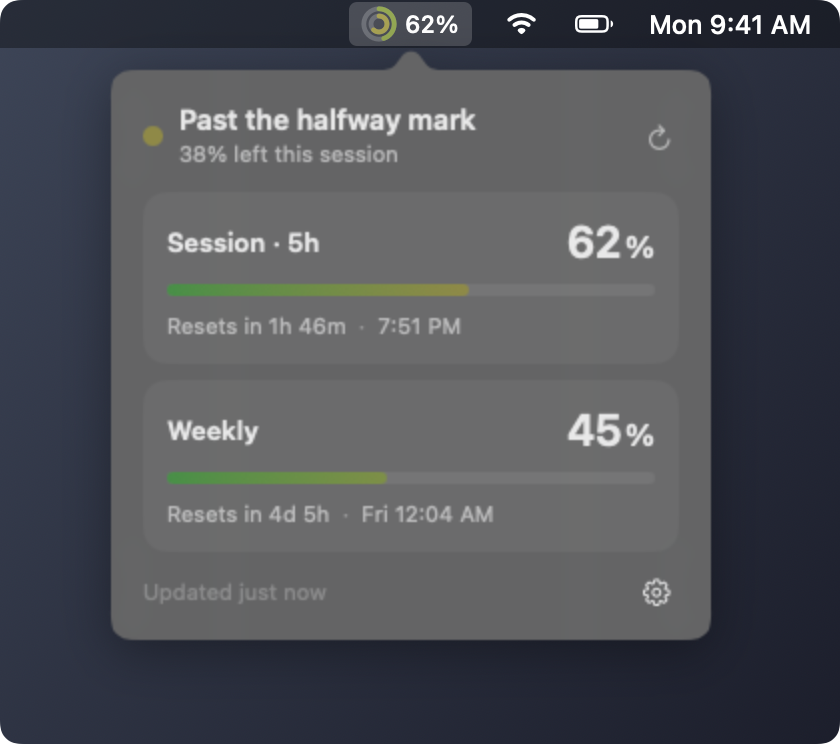
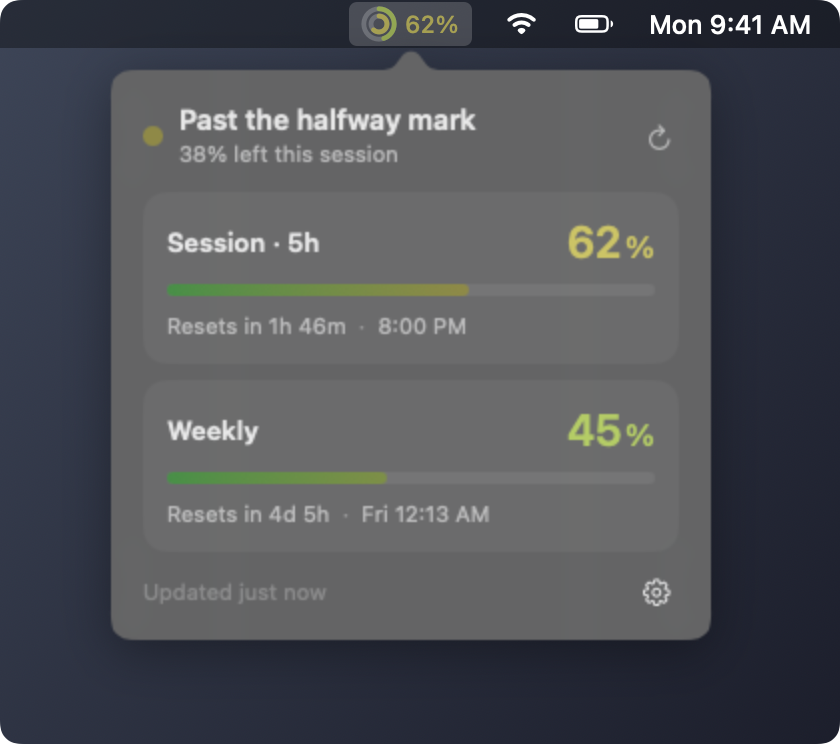
Always color percentages to match their gauge

diff --git a/Sources/UI.swift b/Sources/UI.swift
@@ -241,7 +241,7 @@ struct LimitCard: View {
                         .numericTransition()
                     Text("%").font(.system(size: 15, weight: .semibold))
                 }
-                .foregroundStyle(window.percent >= 80 ? Meter.label(window.percent) : .primary)
+                .foregroundStyle(Meter.label(window.percent))
             }
 
             MeterBar(percent: window.percent)
@@ -517,7 +517,7 @@ final class AppDelegate: NSObject, NSApplicationDelegate {
         if store.showPercent {
             if let session = snapshot?.session {
                 title = " \(session.rounded)%"
-                if session.percent >= 80 { attributes[.foregroundColor] = Meter.nsColor(session.percent, lift: 0.1) }
+                attributes[.foregroundColor] = Meter.nsColor(session.percent, lift: 0.1)
             } else {
                 title = " –"
             }
